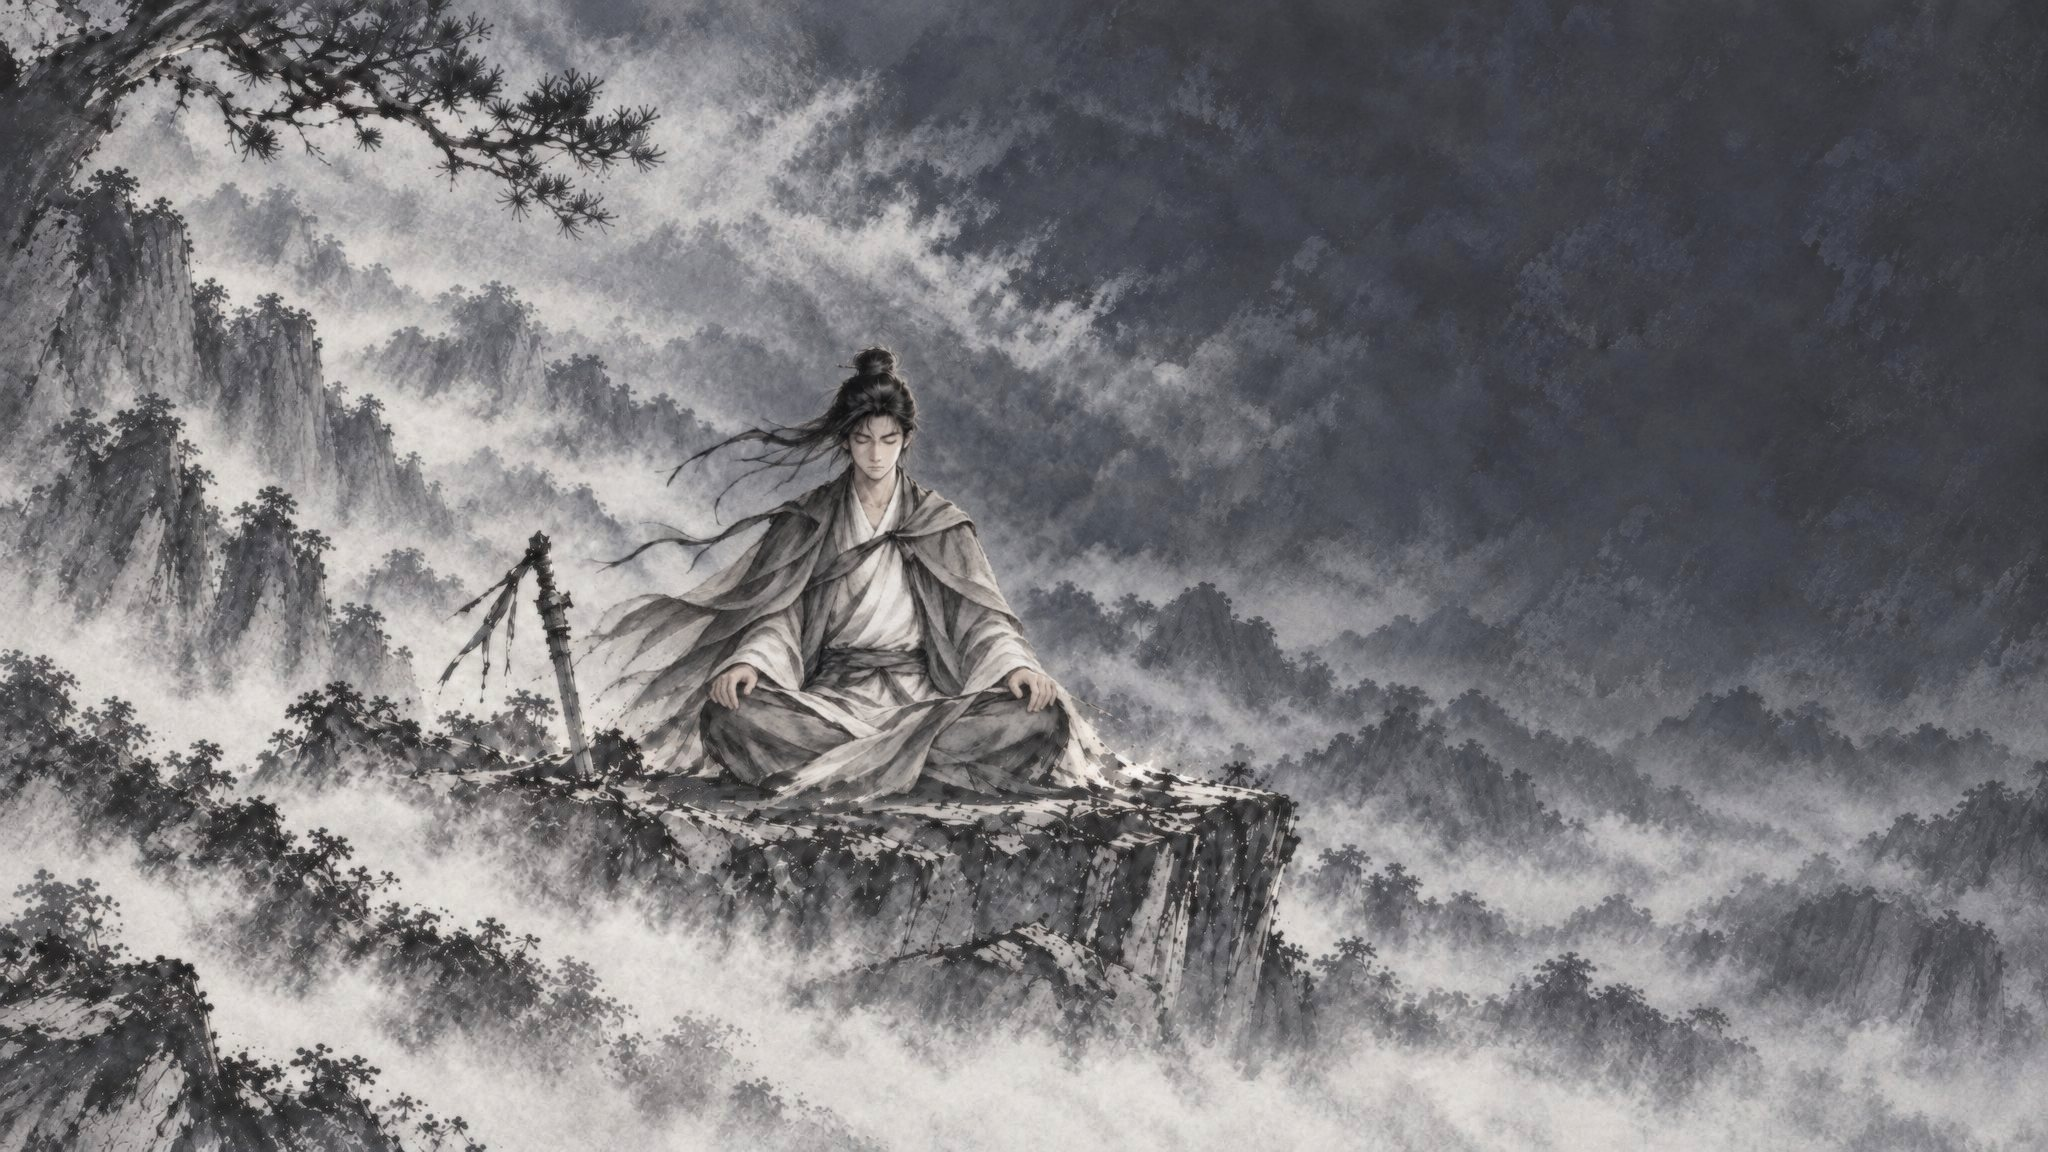
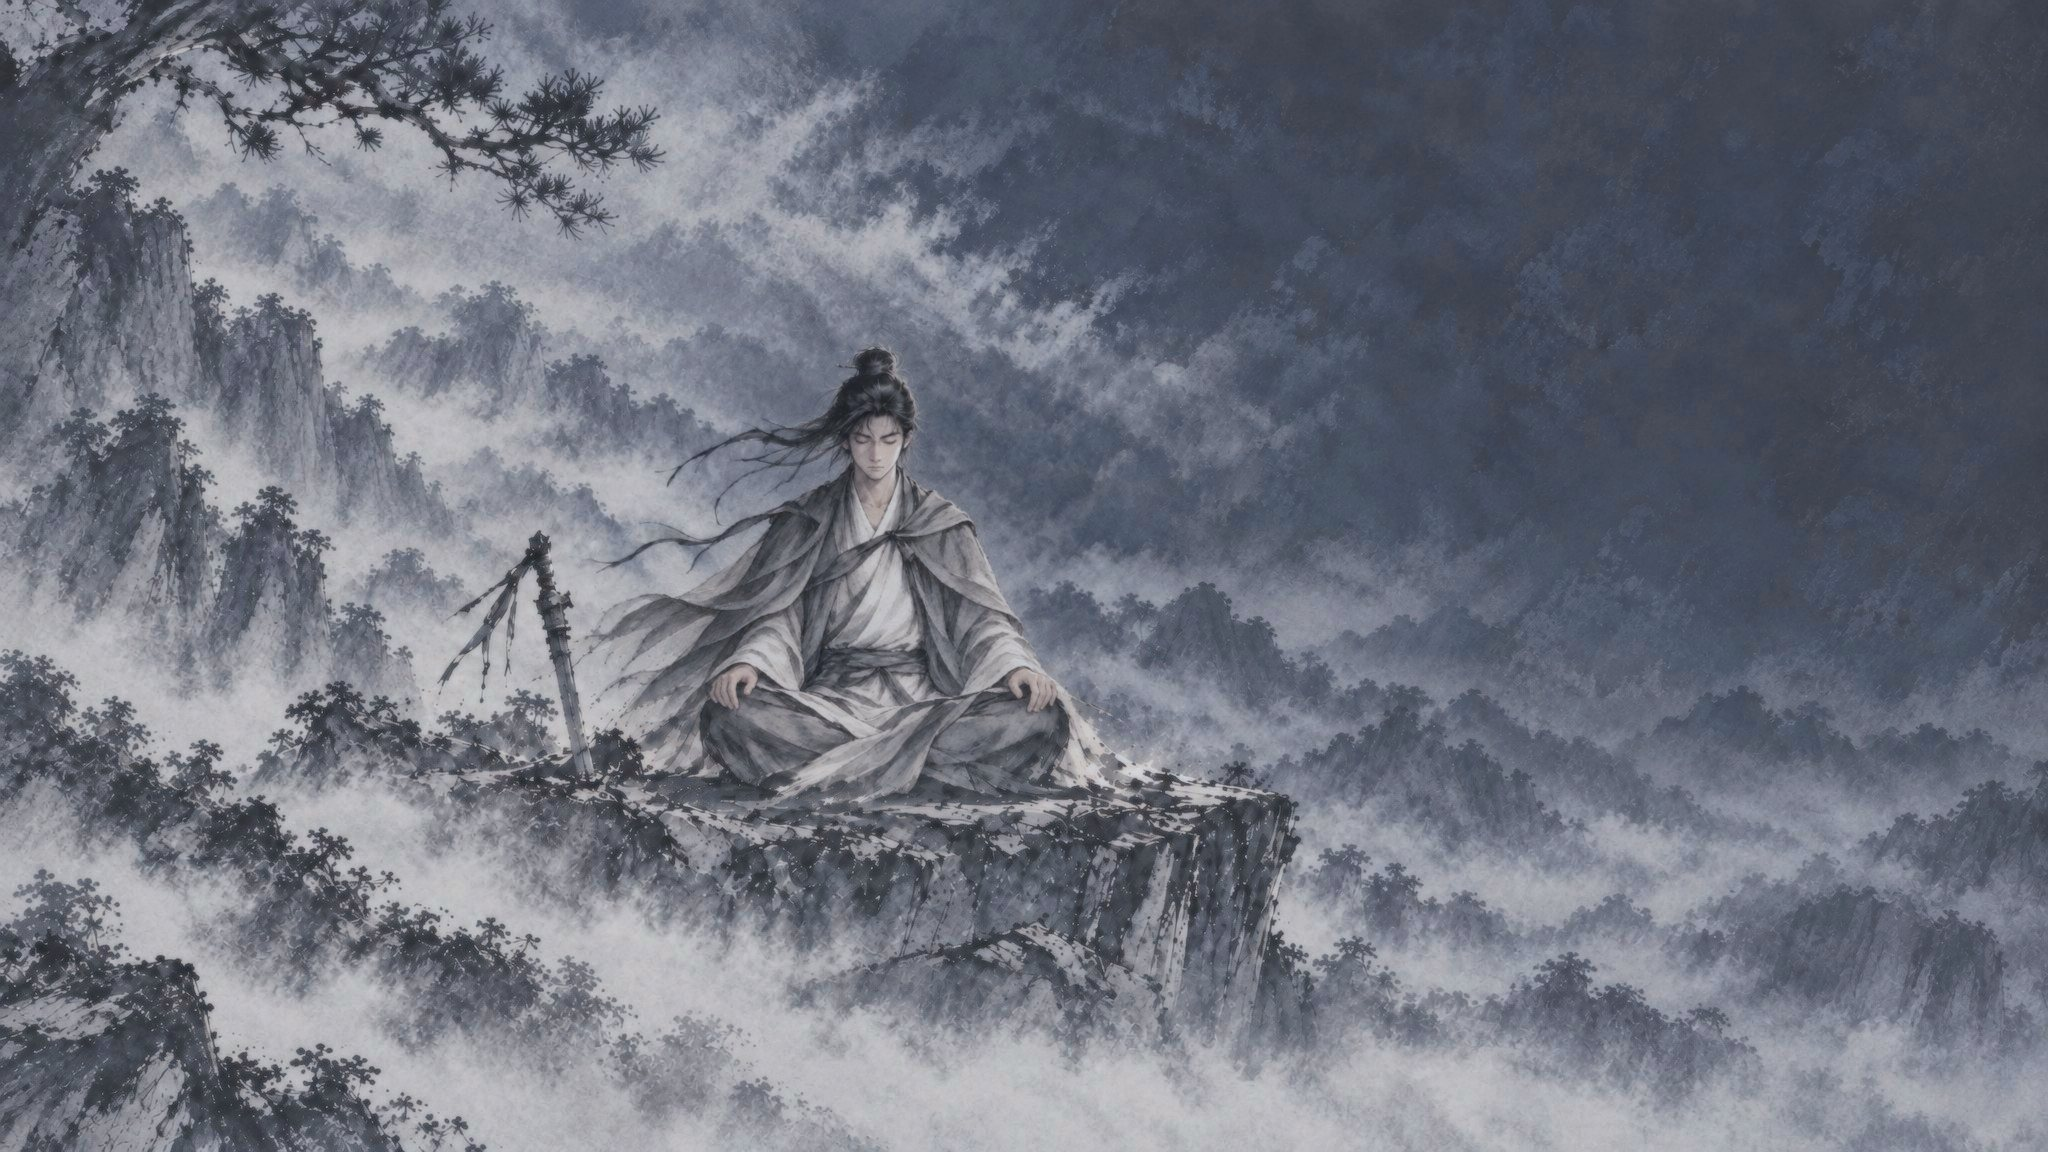
docs(bag-wugong): 武功文字统一文楷、内功写重数、底图调成舆图同款冷灰调

diff --git a/docs/design/bag-wugong-prototype.html b/docs/design/bag-wugong-prototype.html
@@ -165,13 +165,16 @@ button { font: inherit; color: inherit; }
 .tocpg { position: absolute; left: 22.6%; top: 37.5%; z-index: 1; padding: 2px 10px; border-radius: 10px; background: oklch(0.9 0.006 85 / .6); transform: translateX(-50%); display: flex; gap: 12px; align-items: center; font-size: 13px; color: oklch(0.3 0.01 262); }
 .tocpg button { border: 0; background: none; cursor: pointer; font-size: 16px; color: oklch(0.3 0.01 262); } .tocpg button:disabled { opacity: .3; cursor: default; }
 /* 右侧题跋：大字竖写名 + 两列批注 + 朱印 */
-.ttl { position: absolute; left: 82.5%; top: 6%; transform: translateX(-50%); writing-mode: vertical-rl; font-family: 'Ma Shan Zheng', var(--font-display); line-height: 1;
+.ttl { position: absolute; left: 82.5%; top: 6%; transform: translateX(-50%); writing-mode: vertical-rl; font-weight: 700; line-height: 1.05;
   font-size: var(--tf); color: oklch(0.93 0.01 85); text-shadow: 0 2px 10px oklch(0.1 0.01 262 / .6); }
 .ttl.q2 { color: oklch(0.82 0.06 230); } .ttl.q3 { color: oklch(0.8 0.1 40); }
 .tseal { position: absolute; width: calc(var(--pw) * .014); aspect-ratio: 3 / 4; background: oklch(0.5 0.17 28 / .9); color: oklch(0.93 0.03 80); font-size: calc(var(--pw) * .0055);
   writing-mode: vertical-rl; display: grid; place-items: center; border-radius: 1px; font-family: var(--font-display); }
 .verse { position: absolute; top: 7%; display: flex; flex-direction: row-reverse; gap: calc(var(--pw) * .012); right: 3.5%; }
 .verse span { writing-mode: vertical-rl; font-family: var(--wgf); font-size: clamp(13px, calc(var(--pw) * .0118), 18px); letter-spacing: .3em; color: oklch(0.9 0.01 85); }
+.zh5 { position: absolute; left: 73.5%; font-size: clamp(14px, calc(var(--pw) * .0118), 18px); color: oklch(0.9 0.01 85); letter-spacing: .1em; }
+.zh5 b { font-size: 1.9em; color: oklch(0.86 0.1 78); font-weight: 700; margin: 0 .15em; }
+.zh5 span { margin-left: 1em; font-size: .8em; color: oklch(0.8 0.01 85); }
 .wsec { position: absolute; left: 73.5%; right: 2%; display: flex; align-items: center; gap: 10px; font-family: var(--font-display); font-size: clamp(14px, calc(var(--pw) * .0118), 18px); letter-spacing: .25em; color: oklch(0.92 0.01 85); }
 .wsec::after { content: ''; flex: 1; height: 1px; background: oklch(0.85 0.01 85 / .5); }
 /* 招式：每式一枚圆形墨像，悬停给式名、倍率、效果、熟练；外圈细弧为熟练 */
@@ -188,10 +191,9 @@ button { font: inherit; color: inherit; }
 .attrs5 { position: absolute; left: 74.5%; top: 64.5%; width: 23.5%; display: grid; gap: calc(var(--pw) * .0068); }
 .attrs5 .r { display: grid; grid-template-columns: 4.6em 1fr 4.2em; align-items: center; gap: 10px; font-size: clamp(13px, calc(var(--pw) * .0108), 16px); color: oklch(0.9 0.01 85); letter-spacing: .1em; }
 .attrs5 .r .k { text-align: right; font-family: var(--wgf); } .attrs5 .fxr { font-family: var(--wgf); }
+/* 武功页文字一律霞鹜文楷（页头「武功」随全站） */
 #sc-wg { --wgf: var(--font-body); }
-#sc-wg[data-font="song"] { --wgf: var(--font-display); }
-#sc-wg[data-font="msz"] { --wgf: 'Ma Shan Zheng', var(--font-display); }
-#sc-wg[data-font="xw"] { --wgf: 'ZCOOL XiaoWei', var(--font-display); }
+#sc-wg .pic, #sc-wg .pic * { font-family: var(--font-body) !important; }
 .attrs5 .bar { height: 7px; border-radius: 4px; background: oklch(0.2 0.01 262 / .6); overflow: hidden; }
 .attrs5 .bar i { display: block; height: 100%; border-radius: 4px; background: linear-gradient(90deg, oklch(0.85 0.01 85), oklch(0.75 0.01 85)); }
 .attrs5 .v { text-align: right; letter-spacing: 0; color: oklch(0.88 0.01 85); }
@@ -237,7 +239,7 @@ button { font: inherit; color: inherit; }
     <div id="tagHost"></div>
   </section>
   <section class="scene off" id="sc-wg">
-    <div class="pic"><div class="bg" style="background-image:url('../../code/public/art/wugong/bg-tall.jpg')"></div>
+    <div class="pic"><div class="bg" id="wgBg" style="background-image:url('../../code/public/art/wugong/bg-tall.jpg')"></div>
       <div class="wrule"></div><div id="wcats"></div><div class="toc" id="toc"></div><div class="tocpg" id="tocpg"></div>
       <div id="wdetail"></div><div class="eqrow" id="eqrow"></div></div>
     <div class="vig"></div>
@@ -403,7 +405,7 @@ function drawWg() {
 function drawDetail() {
   const [kd, id] = open.split(':'), pw = parseFloat(getComputedStyle($('stage')).getPropertyValue('--pw')), ph = pw * 9 / 16;
   const d = kd === 'ng' ? NG.find((n) => n.id === id) : st.wx.find((w) => w.id === id);
-  const longF = kd === 'wx' && d.forms.length > 4;
+  const longF = kd === 'ng' || d.forms.length > 4;
   const tf = Math.min(pw * .06, ph * (longF ? .25 : .32) / d.name.length);
   const ep = (d.ep || (kd === 'ng' ? '散功重修，根骨不失' : '')).split(/[，,]/);
   let html = `<div class="ttl q${QN[d.quality]}" style="--tf:${tf}px">${d.name}</div>`
@@ -411,7 +413,8 @@ function drawDetail() {
     + `<div class="verse">${ep.map((t) => `<span>${t}</span>`).join('')}</div>`;
   if (kd === 'ng') {
     const isMain = id === st.main, mx = { 气血: 30000, 攻击: 3500, 防御: 1800, 命中: 60, 闪避: 20 };
-    html += `<div class="wsec" style="top:41%">心法</div><div class="attrs5" style="top:45%;gap:0">${d.yj.slice(0, 5).map(([k, v]) => `<div class="yj">${k}　${v}</div>`).join('')}</div>`
+    html += `<div class="zh5" style="top:33.5%">第 <b>${isMain ? d.zhong : d.zhong - 3}</b> 重<span>${isMain ? '主修 · ' : '转修后 · '}最高至${d.cap}</span></div>`
+      + `<div class="wsec" style="top:41%">心法</div><div class="attrs5" style="top:45%;gap:0">${d.yj.slice(0, 5).map(([k, v]) => `<div class="yj">${k}　${v}</div>`).join('')}</div>`
       + `<div class="wsec" style="top:62%">属性</div><div class="attrs5" style="top:66%;gap:calc(var(--pw) * .003)">${d.attrs.map(([k, v]) => `<div class="r"><span class="k">${k}</span><span class="bar"><i style="width:${Math.min(100, v / mx[k] * 100)}%"></i></span><span class="v">+${fmt(v)}</span></div>`).join('')}</div>`
       + `<div class="wact">${isMain ? '<span class="need">还差 3.2万 内力</span><button disabled>精进一重</button>' : `<button class="${d.route === '蚀骨' ? '' : 'quiet'}">${d.route === '蚀骨' ? '转修' : '散功重修'}</button>`}</div>`;
     $('wdetail').innerHTML = html; return;
@@ -439,12 +442,10 @@ const tip = $('tip');
 document.addEventListener('mouseover', (e) => { const t = e.target.closest('[data-tip]'); if (!t || !t.dataset.tip) return; tip.innerHTML = t.dataset.tip; tip.classList.add('on');
   const r = t.getBoundingClientRect(); tip.style.left = `${Math.max(8, Math.min(innerWidth - tip.offsetWidth - 8, r.left + r.width / 2 - tip.offsetWidth / 2))}px`; tip.style.top = `${r.bottom + 8}px`; });
 document.addEventListener('mouseout', (e) => { if (e.target.closest('[data-tip]')) tip.classList.remove('on'); });
-const FONTS = [['wk', '文楷'], ['song', '宋体'], ['msz', '马善政'], ['xw', '小薇']];
 const icv = document.createElement('span'); icv.id = 'icv'; icv.style.display = 'none';
-icv.innerHTML = '｜红框字体 ' + FONTS.map(([k, n]) => `<button data-f="${k}" class="${k === WFONT ? 'on' : ''}">${n}</button>`).join('');
+icv.innerHTML = '｜武功底图 <button data-v="2" class="on">新 · 冷灰调</button><button data-v="1">旧</button>';
 $('proto').appendChild(icv);
-icv.querySelectorAll('button').forEach((b) => b.onclick = () => { WFONT = b.dataset.f; $('sc-wg').dataset.font = WFONT; icv.querySelectorAll('button').forEach((x) => x.classList.toggle('on', x === b)); });
-$('sc-wg').dataset.font = WFONT;
+icv.querySelectorAll('button').forEach((b) => b.onclick = () => { $('wgBg').style.backgroundImage = `url('../../code/public/art/wugong/bg-tall${b.dataset.v === '1' ? '-v1' : ''}.jpg')`; icv.querySelectorAll('button').forEach((x) => x.classList.toggle('on', x === b)); });
 document.addEventListener('click', () => { tip.classList.remove('on'); if (sel) { sel = null; drawBag(); } });
 document.addEventListener('keydown', (e) => { if (e.key === 'Escape' && sel) { sel = null; drawBag(); } });
 function show(p) { page = p; document.querySelectorAll('#nav button[data-p]').forEach((b) => b.classList.toggle('on', b.dataset.p === p));

diff --git a/changelog.d/feature-bag-wugong-redesign.md b/changelog.d/feature-bag-wugong-redesign.md
@@ -7,3 +7,4 @@
 - **武功原型重做（甲一）**：按用户选定的概念图 `concepts/wg5-wd-1.jpg` 实现——松崖打坐一整幅画（AI 原图抹去界面字样后重绘、上下续画），左缘一列类别圈，旁边目录竖写这一类各门（选中金字带点、已装下标一点、未得淡灰，一页八门可翻），右侧大字竖写名、两列批注与朱印，下设「招式」圆形墨像（外圈细弧为熟练，圆满盖印，悬停给式名、倍率、效果）与「属性」墨刷条（伤害、触发、耗气、冷却 + 特效），下沿一排圆为装配（首枚金圈为主修内功）；内功类别改为心法要诀 + 五项属性条。方向挑选页 `concepts/wugong-pick-5.html`。
 - **武功原型第二轮**：目录换成 AI 画的宣纸板（板上竖线分八列，名字落在列中）；招式圆满去掉朱印角标；下沿装配圈缩小下移、收在画面左中，不再压到右侧属性；底图再淡一档（亮度 120、浓墨 1% 以内、颗粒磨细）；类别图标出四组（墨圆 / 朱印 / 墨笔 / 圆画）供在原型状态栏切换对比，素材 `art/wugong/icset/`、`toc.png`。
 - **武功原型第三轮**：类别图标定为甲组墨圆，下沿装配圈同套；武功、行囊与修炼底图里的人物按原位重绘为连续笔触（去掉碎斑点与白色描边光晕）；招式圆固定大小，超过四式折成两行、题跋与属性随之让位；目录名、批注、属性名三处字体可在原型状态栏切换（文楷 / 宋体 / 马善政 / 小薇）对比。
+- **武功原型第四轮**：武功页画上文字一律霞鹜文楷（去掉字体切换）；内功详情在名字下写「第 N 重 · 主修 / 转修后 · 最高至某境」；底图按战斗舆图与行囊的观感调色（反差 50 → 39、冷蓝灰调 b −1.5 → −7、饱和 6% → 14%），旧版留作 `bg-v1.jpg` 并可在原型状态栏切换对比。
